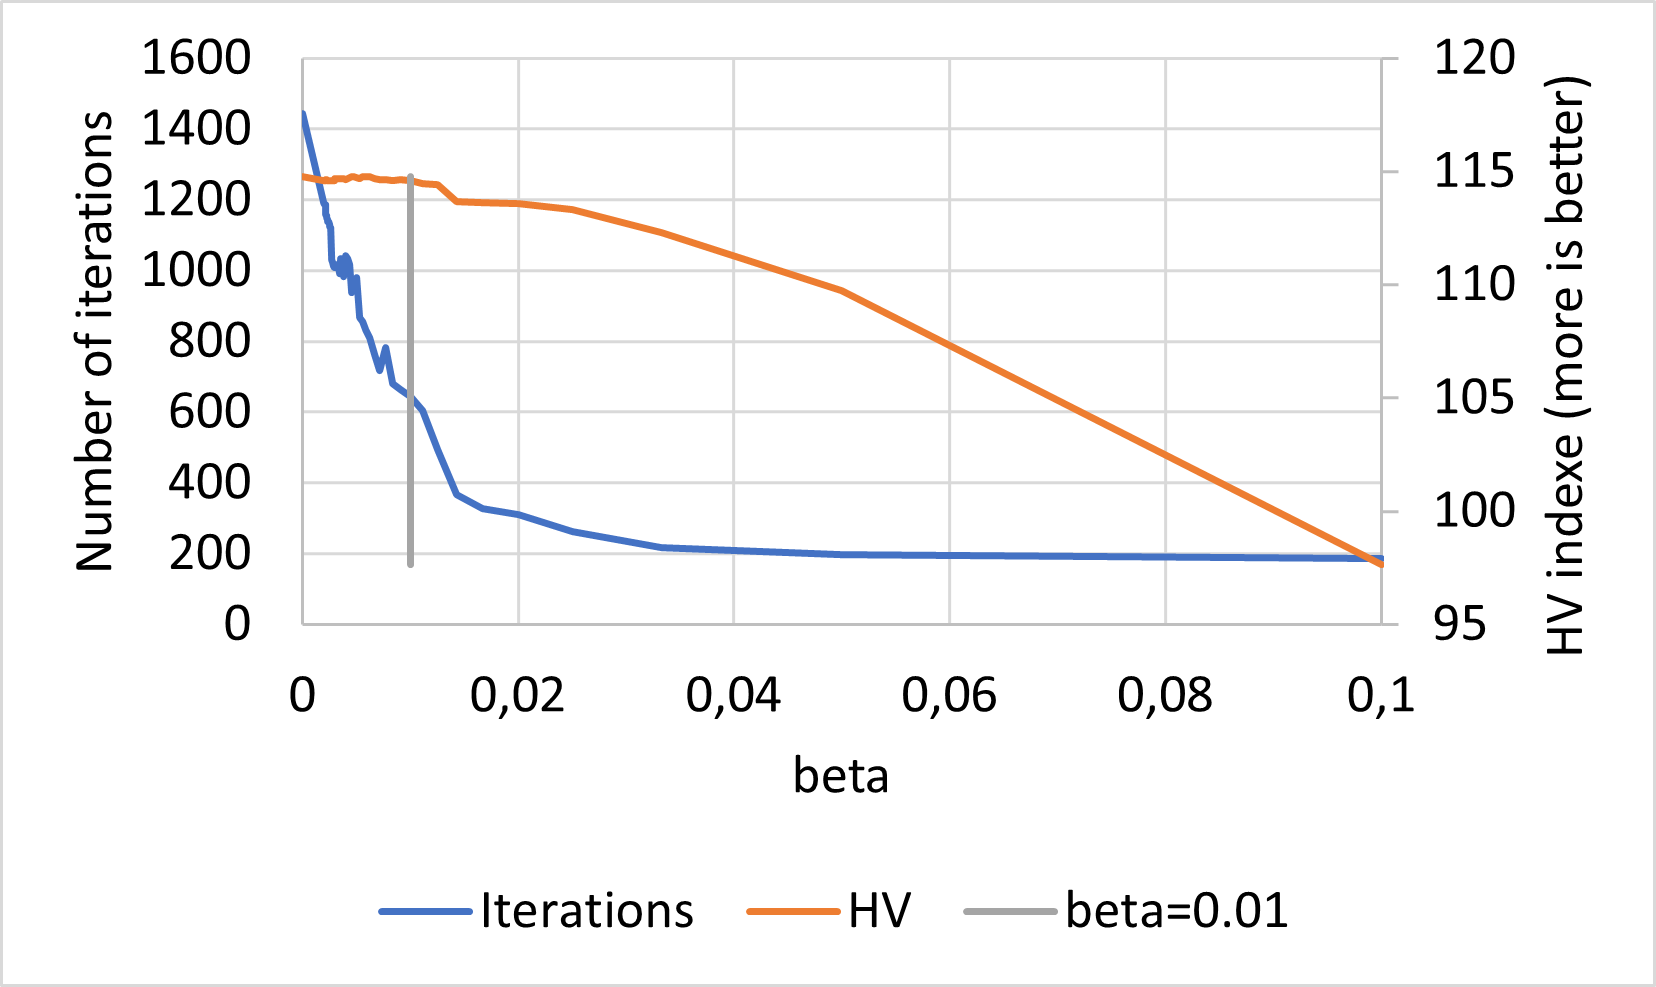
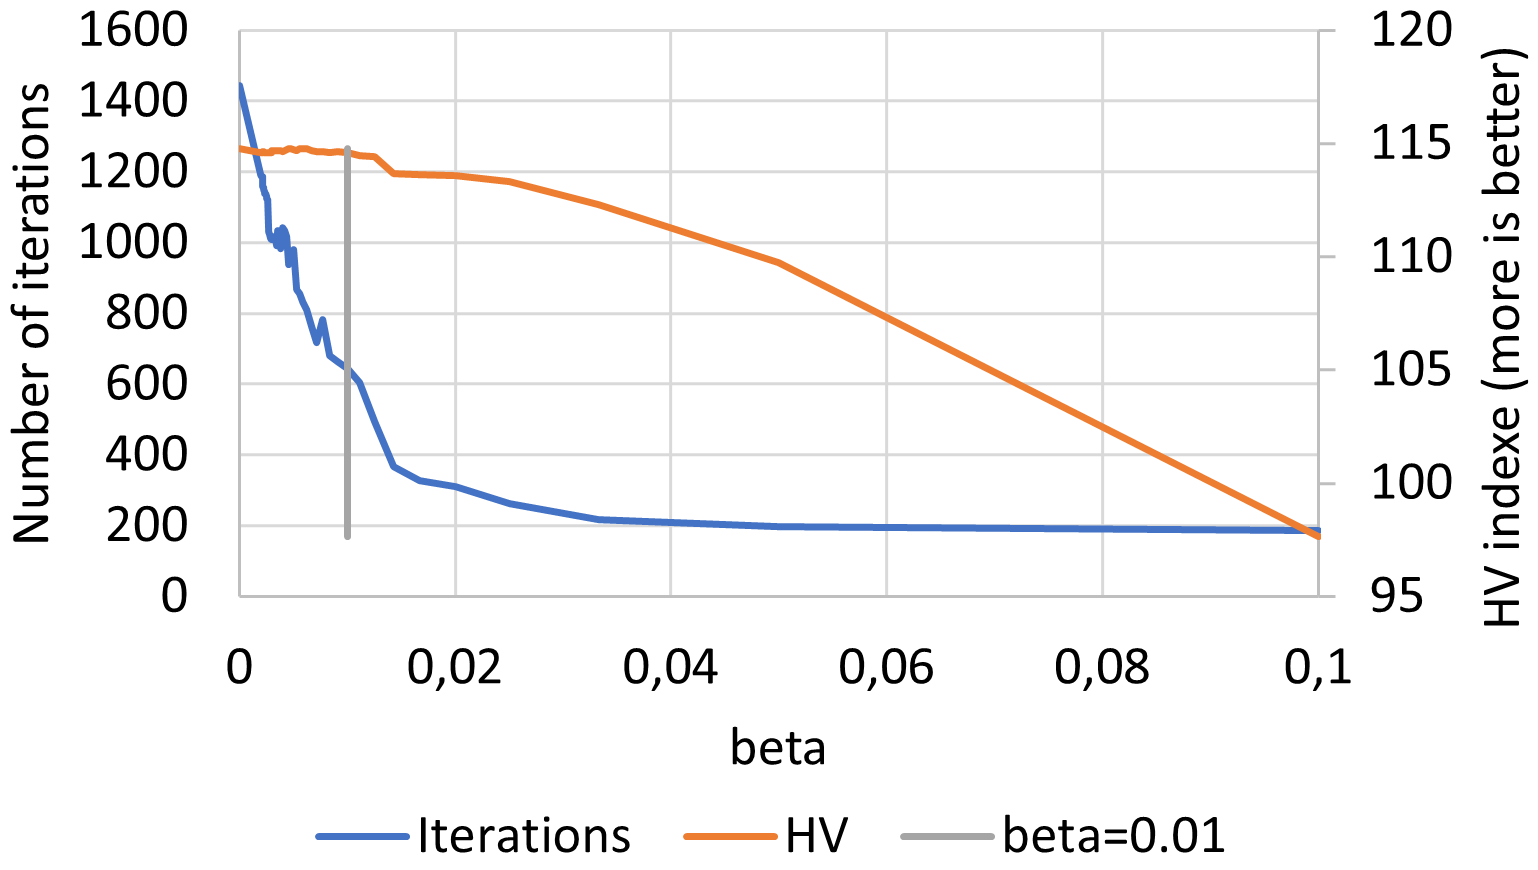
reduce the size of the figures

Changed region(s): [[0.0, 0.0, 1.0, 1.0], [0.1248, 0.7448, 0.1873, 0.7759], [0.0936, 0.6517, 0.1248, 0.7138]]

diff --git a/2023/NUMTA/Full paper/NUMTA_2023_MCO.tex b/2023/NUMTA/Full paper/NUMTA_2023_MCO.tex
@@ -354,7 +354,8 @@ If $i=m$, then the algorithm completes its running and the set of non-dominated 
 
 \section{Experimental efficiency testing}\label{sec:4}
 
-Computations were conducted on the supercomputer ``Lobachevsky'' of the Nizhni Novgorod State University (operating system CentOS 7, control system SLURM). One node of the supercomputer has 2 processors Intel Sandy Bridge E5-2660 2.2 GHz, 64 Gb RAM. One CPU contains 8 cores, i.e., 16 cores are available on one node. To obtain the executable program code the compilers Intel C++ 17.0.0 and python 3.9 were used. Computations were performed with the support of the package scikit-learn 0.24.2 and the optimization software Globalizer \cite{globalizerSystem}.
+Computations were conducted on the supercomputer ``Lobachevsky'' of the Nizhni Novgorod State University (operating system CentOS 7, control system SLURM). %One node of the supercomputer has 2 processors Intel Sandy Bridge E5-2660 2.2 GHz, 64 Gb RAM. One CPU contains 8 cores, i.e., 16 cores are available on one node. 
+To obtain the executable program code the compilers Intel C++ 17.0.0 and python 3.9 were used. Computations were performed with the support of the package scikit-learn 0.24.2 and the optimization software Globalizer \cite{globalizerSystem}.
 
 The experiment was organized in the following way. For efficiency evaluation of the proposed algorithm hereinafter called AGS-SP (Algorithm of Global Search with Separating Planes), it was compared with its modification AGS-R (Algorithm of Global Search Reduced) where computational scheme is similar, but Rules 3 -- 6 are removed and in the characteristic (\ref{eq:24}) parameter $\beta = 0$. AGS-R ignores the information about the Pareto set approximation. Moreover, to expand the basis of the comparison, some known meta-heuristic evolutionary MMCO methods were involved into the experiment, namely, algorithms SMPSO \cite{NDG09}, OMOPSO \cite{RC05}, NSGA-II \cite{DPA02}, SPEA2 \cite{ZLT01}, IBEA \cite{ZK04} from the jMetal framework \cite{DNA10}.
 
@@ -406,7 +407,7 @@ As it can be seen, the growth of the parameter $\beta$ leads to significant decr
 
 \begin{figure}
 \centering
-\includegraphics[width=0.5\textwidth]{fig3}
+\includegraphics[width=0.7\textwidth]{fig3}
 \caption{Influence of the parameter $\beta$.} \label{fig:3}
 \end{figure}
 
@@ -414,21 +415,17 @@ Problems with greater dimension were solved in the third series of experiments. 
 
 All the competing methods solved the set of 100 MMCO problems several times such that in each case they executed different number of trials and, correspondingly, obtained different values of HV's. If we take a method, consider all the pairs $(K, HV(K))$ where $K$ is number of trials executed by the method and $HV(K)$ is the corresponding value of the HV-index, and place all these pairs as points on the plane with coordinate abscissa axis $K$ and ordinate axis $HV$ we build so called \textit{operational characteristic} \cite{Grishagin2016_2} of the method. On the base of operational characteristics it is easy to compare visually the efficiency of different methods. Indeed, if the operational characteristic of one method is located above the characteristic of the other, then the first method is better because it spends fewer trials for obtaining the same HV, or, equivalently, the first method provides better HV for the same number of trials. Operational characteristics of the competing algorithms for dimensions 3 and 4 are presented in Fig. \ref{fig:4} and \ref{fig:5} correspondingly.
  
- 
-
 \begin{figure}
 \centering
-\includegraphics[width=\textwidth]{fig4}
+\includegraphics[width=0.9\textwidth]{fig4}
 \caption{Operational characteristics for dimension 3.} \label{fig:4}
 \end{figure}
 
 \begin{figure}
 \centering
-\includegraphics[width=\textwidth]{fig5}
+\includegraphics[width=0.9\textwidth]{fig5}
 \caption{Operational characteristics for dimension 4.} \label{fig:5}
 \end{figure}
-
-
 
 As it follows from the results for the multidimensional cases, the undisputed winner is the proposed algorithm AGS-SP, i.e., the applied modifications enhance significantly the efficiency of solving complicated multiextremal multicriterial problems and allow obtaining better approximation of the Pareto set. And what's more, AGS-SP achieves the best possible value of HV-index in the 4-dimensional experiment while the other methods are far from the best level.
 
